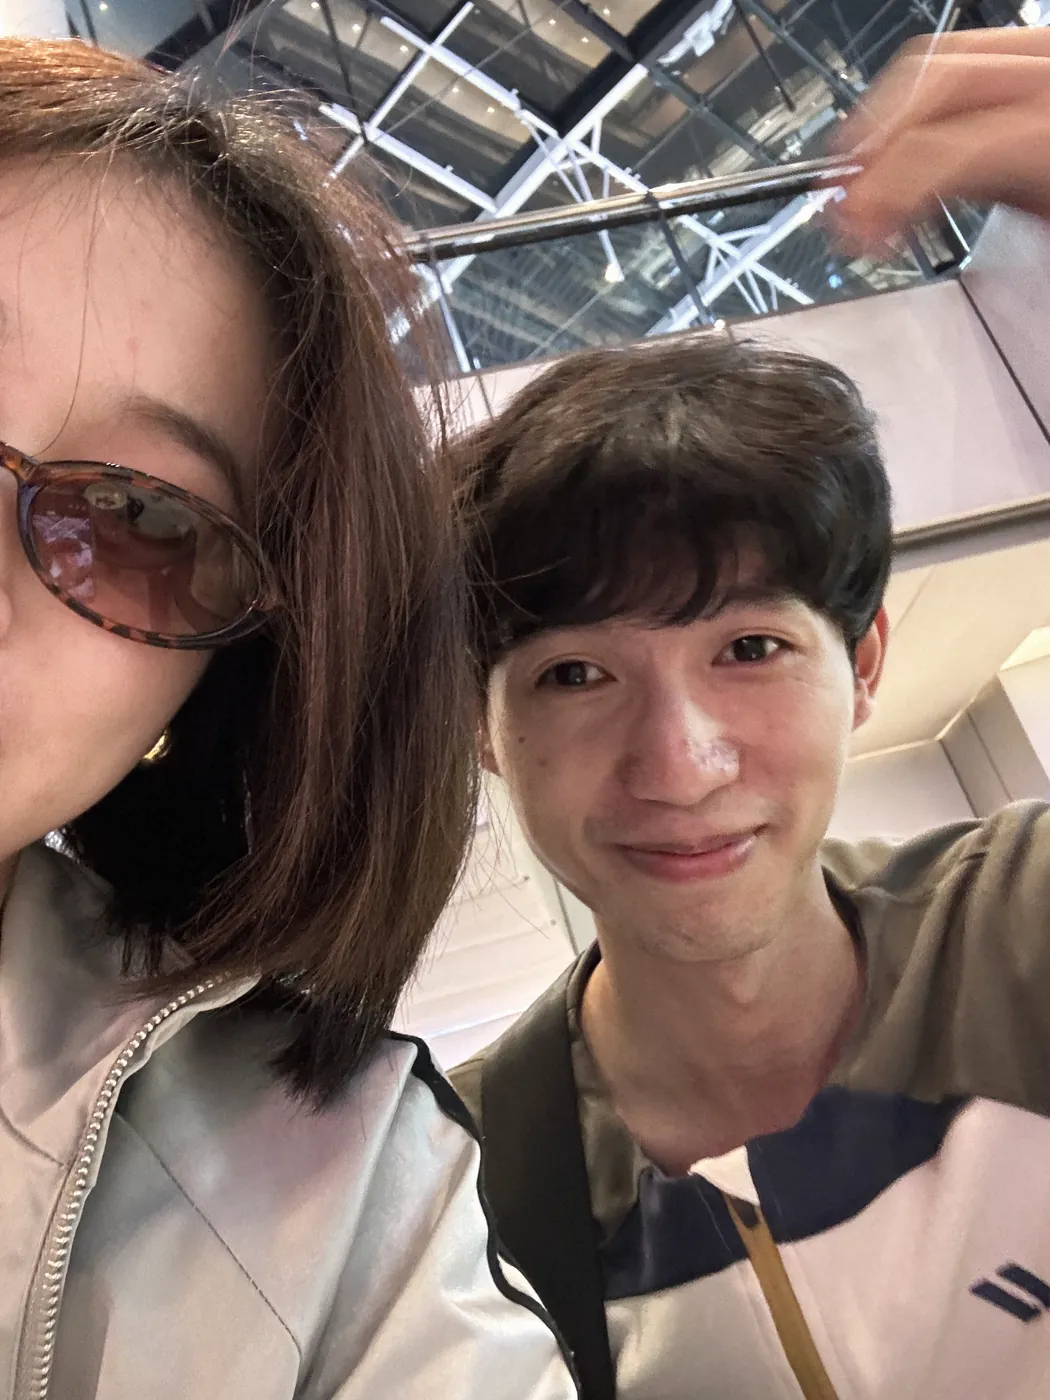
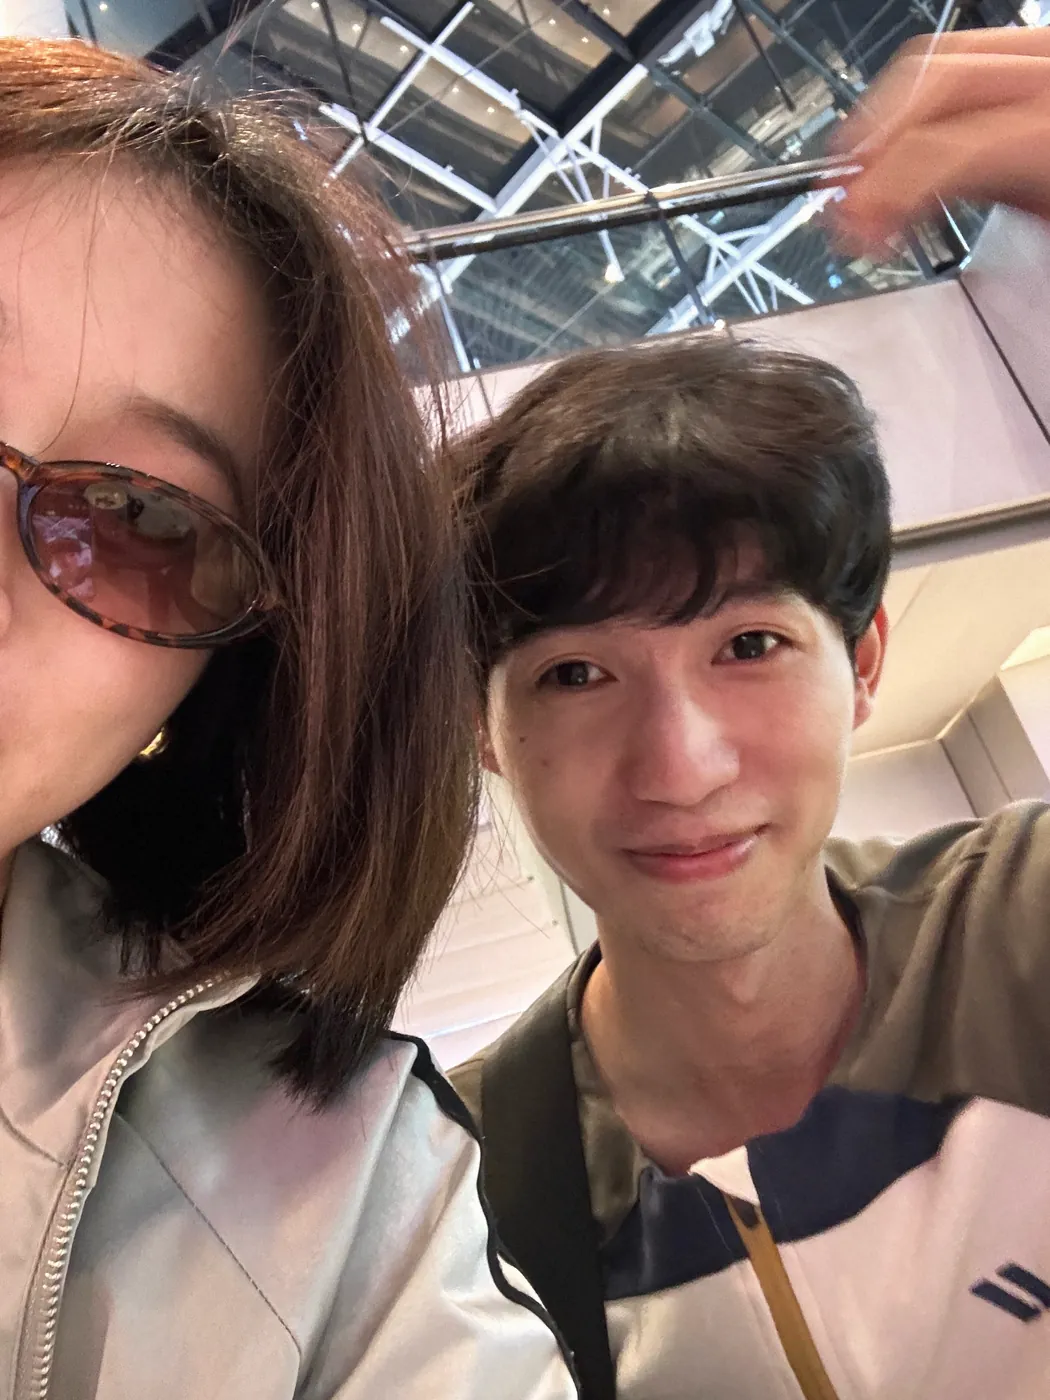
2024 roll: birthday from r2 original (re-graded); add 2024.07 重庆 frame (m5, 我马上就要去杭州上班了); v=19

diff --git a/index.html b/index.html
@@ -10,7 +10,7 @@
 <link rel="preload" href="fonts/BodoniModa.woff2" as="font" type="font/woff2" crossorigin>
 <link rel="preload" href="assets/tag.webp" as="image">
 <script>(function(d){if(!window.matchMedia||matchMedia("(prefers-reduced-motion: reduce)").matches)return;d.classList.add("motion-pending");setTimeout(function(){d.classList.remove("motion-pending")},2500)})(document.documentElement)</script>
-<link rel="stylesheet" href="style.css?v=18">
+<link rel="stylesheet" href="style.css?v=19">
 </head>
 <body>
 <div class="grain" aria-hidden="true"></div>
@@ -181,9 +181,9 @@
   </div>
 </div>
 
-<script src="content.js?v=18"></script>
-<script src="map-data.js?v=18"></script>
-<script src="photos/sizes.js?v=18"></script>
-<script src="app.js?v=18"></script>
+<script src="content.js?v=19"></script>
+<script src="map-data.js?v=19"></script>
+<script src="photos/sizes.js?v=19"></script>
+<script src="app.js?v=19"></script>
 </body>
 </html>

diff --git a/content.js b/content.js
@@ -140,6 +140,7 @@ window.CONTENT = {
       { title: "新年 · 重庆", date: "2024.01.01", text: "", photo: "photos/m3.webp" },   // 水母灯
       { title: "重庆", date: "2024.03", text: "女子五金背后的男人", photo: "photos/n0-hardware.webp", highlight: true, feature: true },
       { title: "生日 · 重庆", date: "2024.04.11", text: "", photo: "photos/m4.webp" },
+      { title: "重庆", date: "2024.07", text: "我马上就要去杭州上班了", photo: "photos/m5.webp" },   // 2024.07.14
       { title: "重庆同居", date: "2024", text: "", photo: "photos/n4.webp" },
     ]},
     { year: "2025–26", layout: "peak", title: "待填写", items: [

diff --git a/photos/sizes.js b/photos/sizes.js
@@ -94,5 +94,9 @@ window.PHOTO_SIZES = {
 "photos/m4.webp": [
 1050,
 1400
+],
+"photos/m5.webp": [
+1050,
+1400
 ]
 };
